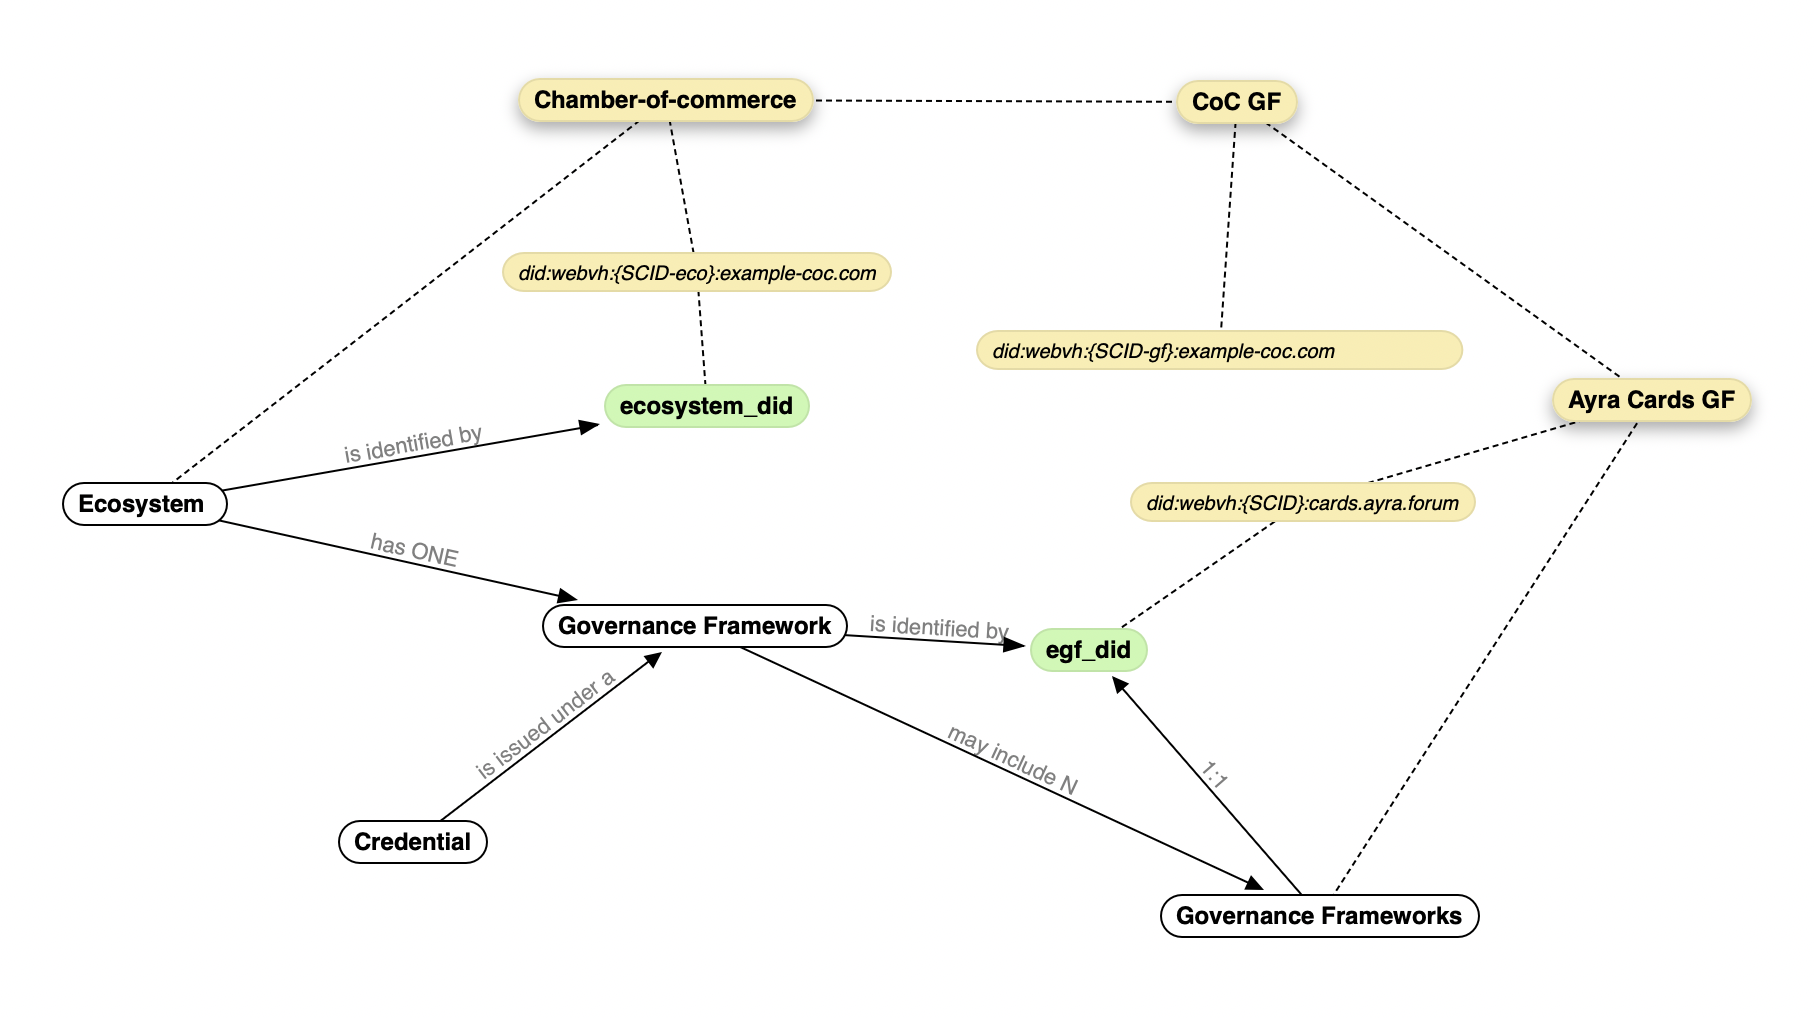
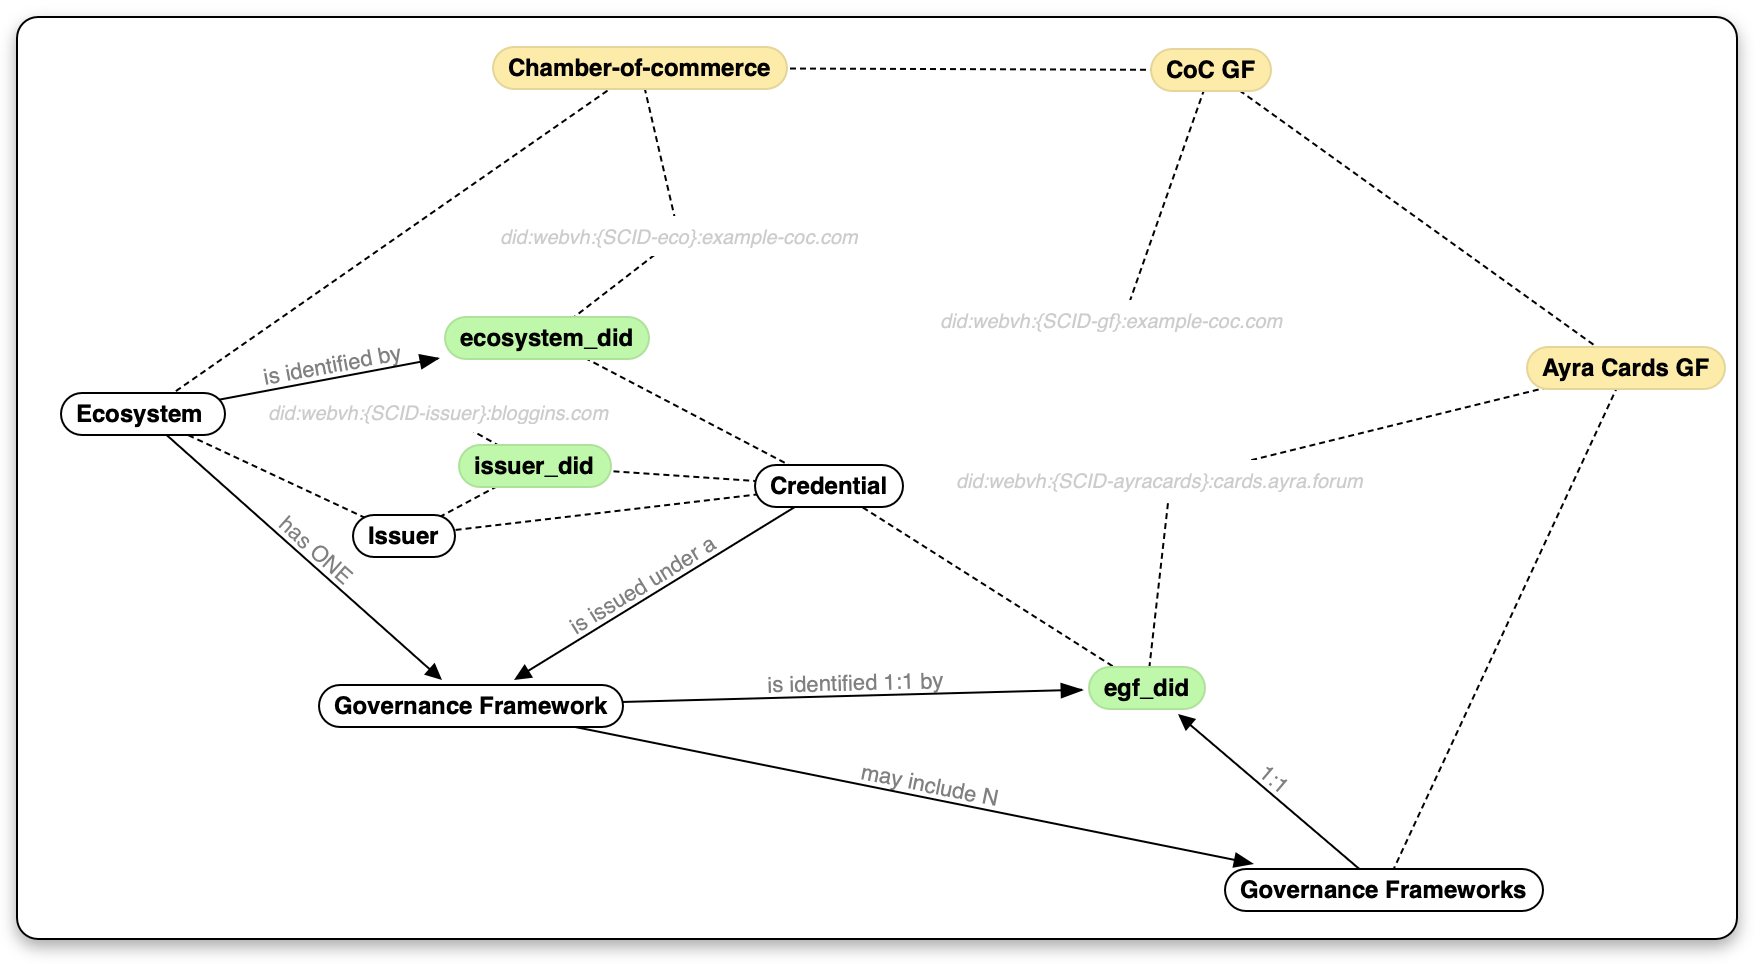
adding Ayra Cards flow

diff --git a/guides/implementers_guide.md b/guides/implementers_guide.md
@@ -178,25 +178,24 @@ Below is a step-by-step process for how a verifier would make TRQP queries.
 
 ## Standard Interaction Patterns
 
-### After Credential (Proof) Presented
+### After Credential (Proof) Presented - Ayra Cards example
 
-With an Ayra Trust Network credential, the following data (claims) MUST be present:
+With an Ayra Cards Trust Network credential, the following data (claims) MUST be present:
 
 - Ayra Specific:
-  - `ayra.cards.type`:   
   - `ayra.assurance_level`: 
   - `ayra.did`: QUESTION/DECISION - does this belong? What if it is spoofed?
+
+- Ayra Cards Specific:
+  - `ayra.cards.type`: 
   - `ayra.cards.version`: 
 
-
-
 - More General:
-  - `issued_under_assertion_id`: string of the authority that is credential was issued under. 
+  - `issued_under_assertion_id`: string of the authority that is credential was issued under. This ties the credential to the authorization that the issuer holds - which will be confirmed against the trust registries of the ecosystem and the Ayra Trust Network.
   - `issuer_did`: The DID of the issuer of the credential.
   - `ecosystem_did`: The DID of the ecosystem that the Issuer issued the credential under.
 
-![scribble of connections](imgs/scribble-connections.png)
-
+![scribble of connections](imgs/scribble-connections.png "Informal diagram of interconnectivity.")
 
 
 ### Simple Pattern
